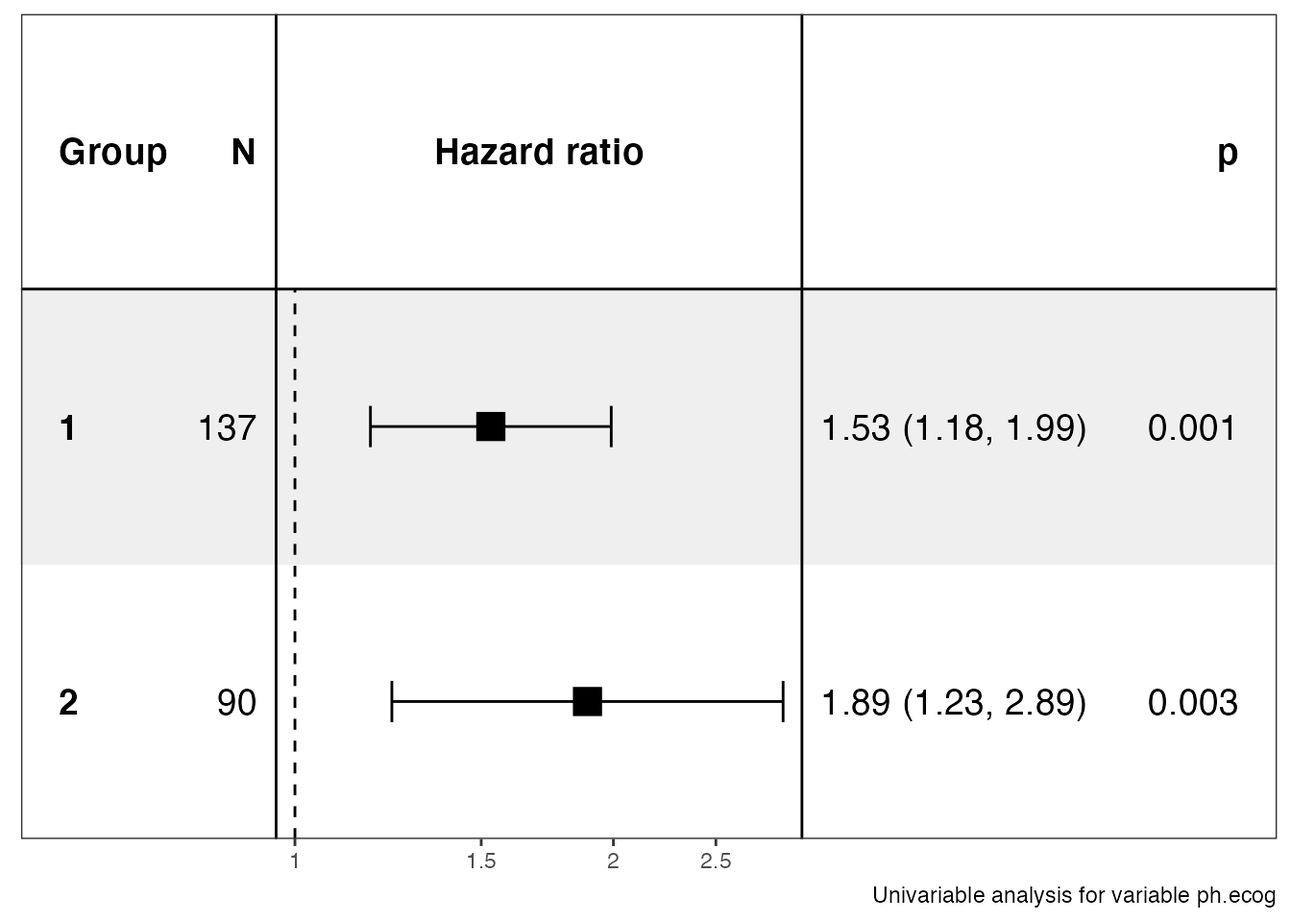
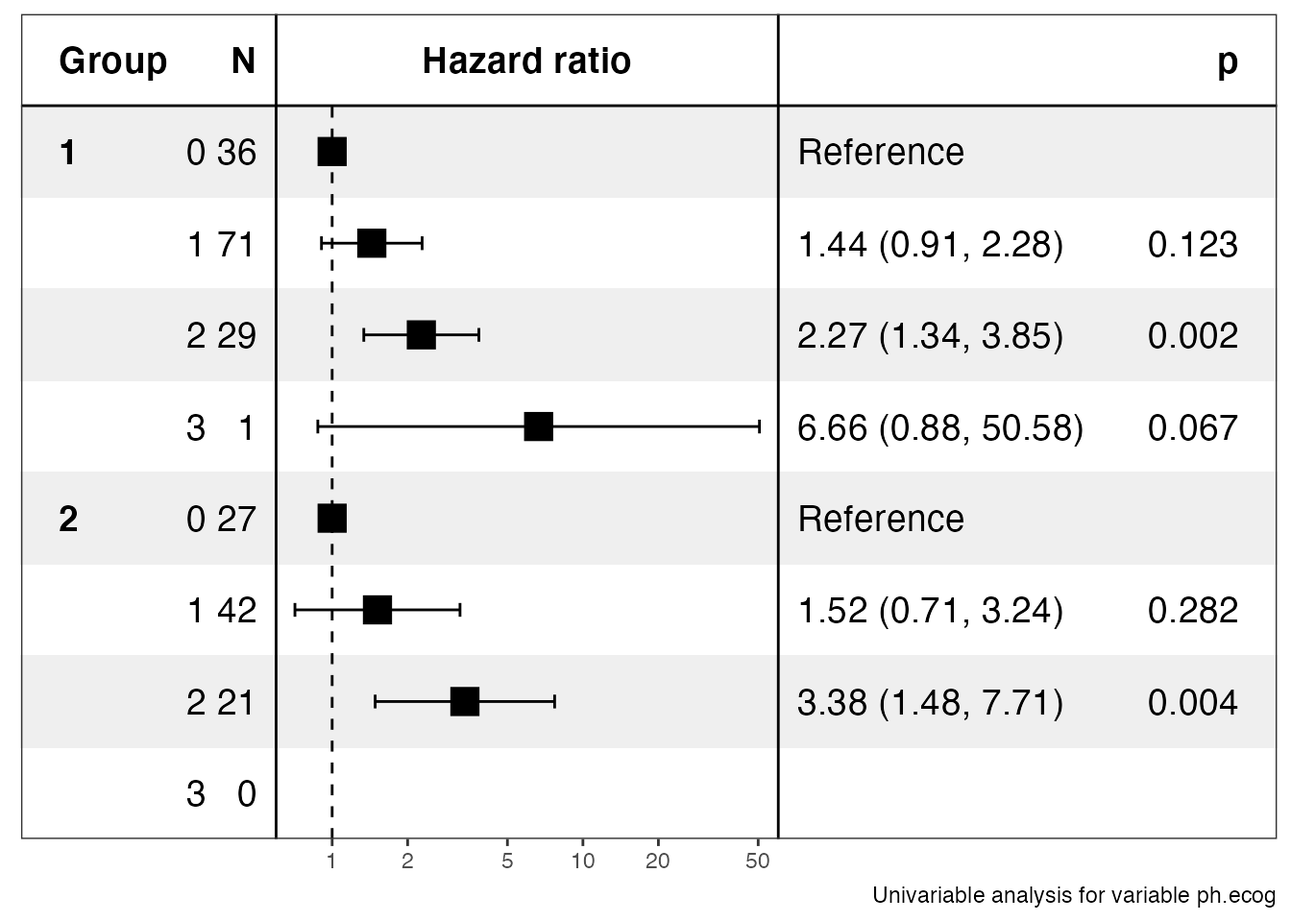
update docs

diff --git a/docs/articles/ezgroup.html b/docs/articles/ezgroup.html
@@ -91,7 +91,7 @@
       <h1 data-toc-skip>ezcox: Easy Group Cox Analysis and Visualization</h1>
                         <h4 class="author">Shixiang Wang  SYSUCC</h4>
             
-            <h4 class="date">2021-10-21</h4>
+            <h4 class="date">2021-10-28</h4>
       
       <small class="dont-index">Source: <a href="https://github.com/ShixiangWang/ezcox/blob/master/vignettes/ezgroup.Rmd"><code>vignettes/ezgroup.Rmd</code></a></small>
       <div class="hidden name"><code>ezgroup.Rmd</code></div>
@@ -108,12 +108,14 @@
 <span class="co">#&gt; </span>
 <span class="co">#&gt; Project home : https://github.com/ShixiangWang/ezcox</span>
 <span class="co">#&gt; Documentation: https://shixiangwang.github.io/ezcox</span>
-<span class="co">#&gt; </span>
-<span class="co">#&gt; Run citation("ezcox") to see how to cite 'ezcox'.</span>
+<span class="co">#&gt; Cite as      : arXiv:2110.14232</span>
 <span class="co">#&gt; =======================================================================</span>
 <span class="co">#&gt; </span></code></pre></div>
 <div class="sourceCode" id="cb2"><pre class="downlit sourceCode r">
 <code class="sourceCode R"><span class="kw"><a href="https://rdrr.io/r/base/library.html">library</a></span><span class="op">(</span><span class="va"><a href="https://github.com/therneau/survival">survival</a></span><span class="op">)</span>
+
+<span class="va">lung</span><span class="op">$</span><span class="va">ph.ecog</span> <span class="op">&lt;-</span> <span class="fu"><a href="https://rdrr.io/r/base/factor.html">factor</a></span><span class="op">(</span><span class="va">lung</span><span class="op">$</span><span class="va">ph.ecog</span><span class="op">)</span>
+
 <span class="fu"><a href="../reference/ezcox_group.html">ezcox_group</a></span><span class="op">(</span><span class="va">lung</span>, grp_var <span class="op">=</span> <span class="st">"sex"</span>, covariate <span class="op">=</span> <span class="st">"ph.ecog"</span><span class="op">)</span>
 <span class="co">#&gt; =&gt; Processing variable 1</span>
 <span class="co">#&gt; ==&gt; Building Surv object...</span>
@@ -126,24 +128,27 @@
 <span class="co">#&gt; covariates=NULL but drop_controls=TRUE, detecting controls...</span>
 <span class="co">#&gt; No. Skipping...</span>
 <span class="co">#&gt; Done.</span>
-<span class="co">#&gt; Resized limits to included dashed line in forest panel</span>
 <span class="co">#&gt; Returns a list containing data and ggplot.</span>
 <span class="co">#&gt; $data</span>
 <span class="co">#&gt; $stats</span>
-<span class="co">#&gt; # A tibble: 2 × 13</span>
-<span class="co">#&gt;   Group Variable is_control contrast_level ref_level n_contrast n_ref  beta</span>
-<span class="co">#&gt;   &lt;chr&gt; &lt;chr&gt;    &lt;lgl&gt;      &lt;chr&gt;          &lt;chr&gt;          &lt;int&gt; &lt;int&gt; &lt;dbl&gt;</span>
-<span class="co">#&gt; 1 1     ph.ecog  FALSE      1              1                137   137 0.426</span>
-<span class="co">#&gt; 2 2     ph.ecog  FALSE      2              2                 90    90 0.637</span>
+<span class="co">#&gt; # A tibble: 6 × 13</span>
+<span class="co">#&gt;   Group Variable is_control contrast_level ref_level n_contrast n_ref   beta</span>
+<span class="co">#&gt;   &lt;chr&gt; &lt;chr&gt;    &lt;lgl&gt;      &lt;chr&gt;          &lt;chr&gt;          &lt;dbl&gt; &lt;dbl&gt;  &lt;dbl&gt;</span>
+<span class="co">#&gt; 1 1     ph.ecog  FALSE      1              0                 71    36  0.364</span>
+<span class="co">#&gt; 2 1     ph.ecog  FALSE      2              0                 29    36  0.819</span>
+<span class="co">#&gt; 3 1     ph.ecog  FALSE      3              0                  1    36  1.9  </span>
+<span class="co">#&gt; 4 2     ph.ecog  FALSE      1              0                 42    27  0.416</span>
+<span class="co">#&gt; 5 2     ph.ecog  FALSE      2              0                 21    27  1.22 </span>
+<span class="co">#&gt; 6 2     ph.ecog  FALSE      3              0                  0    27 NA    </span>
 <span class="co">#&gt; # … with 5 more variables: HR &lt;dbl&gt;, lower_95 &lt;dbl&gt;, upper_95 &lt;dbl&gt;,</span>
 <span class="co">#&gt; #   p.value &lt;dbl&gt;, global.pval &lt;dbl&gt;</span>
 <span class="co">#&gt; </span>
 <span class="co">#&gt; $models</span>
 <span class="co">#&gt; # A tibble: 2 × 6</span>
-<span class="co">#&gt;   Group Variable control model_file                                model  status</span>
-<span class="co">#&gt;   &lt;chr&gt; &lt;chr&gt;    &lt;chr&gt;   &lt;chr&gt;                                     &lt;list&gt; &lt;lgl&gt; </span>
-<span class="co">#&gt; 1 1     ph.ecog  &lt;NA&gt;    /Volumes/Extra/R/Rtmp//Rtmptvse2d/ezcox/… &lt;coxp… TRUE  </span>
-<span class="co">#&gt; 2 2     ph.ecog  &lt;NA&gt;    /Volumes/Extra/R/Rtmp//Rtmptvse2d/ezcox/… &lt;coxp… TRUE  </span>
+<span class="co">#&gt;   Group Variable control model_file                                 model status</span>
+<span class="co">#&gt;   &lt;chr&gt; &lt;chr&gt;    &lt;chr&gt;   &lt;chr&gt;                                      &lt;lis&gt; &lt;lgl&gt; </span>
+<span class="co">#&gt; 1 1     ph.ecog  &lt;NA&gt;    /var/folders/bj/nw1w4g1j37ddpgb6zmh3sfh80… &lt;cox… TRUE  </span>
+<span class="co">#&gt; 2 2     ph.ecog  &lt;NA&gt;    /var/folders/bj/nw1w4g1j37ddpgb6zmh3sfh80… &lt;cox… TRUE  </span>
 <span class="co">#&gt; </span>
 <span class="co">#&gt; attr(,"class")</span>
 <span class="co">#&gt; [1] "ezcox"</span>
@@ -163,26 +168,29 @@
 <span class="co">#&gt; covariates=NULL but drop_controls=TRUE, detecting controls...</span>
 <span class="co">#&gt; Yes. Setting variables to keep...</span>
 <span class="co">#&gt; Done.</span>
-<span class="co">#&gt; Resized limits to included dashed line in forest panel</span>
 <span class="co">#&gt; Returns a list containing data and ggplot.</span>
 <span class="co">#&gt; $data</span>
 <span class="co">#&gt; $stats</span>
-<span class="co">#&gt; # A tibble: 4 × 13</span>
+<span class="co">#&gt; # A tibble: 8 × 13</span>
 <span class="co">#&gt;   Group Variable is_control contrast_level ref_level n_contrast n_ref    beta</span>
-<span class="co">#&gt;   &lt;chr&gt; &lt;chr&gt;    &lt;lgl&gt;      &lt;chr&gt;          &lt;chr&gt;          &lt;int&gt; &lt;int&gt;   &lt;dbl&gt;</span>
-<span class="co">#&gt; 1 1     ph.ecog  FALSE      1              1                137   137  0.419 </span>
-<span class="co">#&gt; 2 1     ph.ecog  TRUE       age            age              138   138  0.0184</span>
-<span class="co">#&gt; 3 2     ph.ecog  FALSE      2              2                 90    90  0.714 </span>
-<span class="co">#&gt; 4 2     ph.ecog  TRUE       age            age               90    90 -0.0112</span>
+<span class="co">#&gt;   &lt;chr&gt; &lt;chr&gt;    &lt;lgl&gt;      &lt;chr&gt;          &lt;chr&gt;          &lt;dbl&gt; &lt;dbl&gt;   &lt;dbl&gt;</span>
+<span class="co">#&gt; 1 1     ph.ecog  FALSE      1              0                 71    36  0.353 </span>
+<span class="co">#&gt; 2 1     ph.ecog  FALSE      2              0                 29    36  0.809 </span>
+<span class="co">#&gt; 3 1     ph.ecog  FALSE      3              0                  1    36  1.77  </span>
+<span class="co">#&gt; 4 1     ph.ecog  TRUE       age            age              138   138  0.0182</span>
+<span class="co">#&gt; 5 2     ph.ecog  FALSE      1              0                 42    27  0.439 </span>
+<span class="co">#&gt; 6 2     ph.ecog  FALSE      2              0                 21    27  1.41  </span>
+<span class="co">#&gt; 7 2     ph.ecog  FALSE      3              0                  0    27 NA     </span>
+<span class="co">#&gt; 8 2     ph.ecog  TRUE       age            age               90    90 -0.0153</span>
 <span class="co">#&gt; # … with 5 more variables: HR &lt;dbl&gt;, lower_95 &lt;dbl&gt;, upper_95 &lt;dbl&gt;,</span>
 <span class="co">#&gt; #   p.value &lt;dbl&gt;, global.pval &lt;dbl&gt;</span>
 <span class="co">#&gt; </span>
 <span class="co">#&gt; $models</span>
 <span class="co">#&gt; # A tibble: 2 × 6</span>
-<span class="co">#&gt;   Group Variable control model_file                                model  status</span>
-<span class="co">#&gt;   &lt;chr&gt; &lt;chr&gt;    &lt;chr&gt;   &lt;chr&gt;                                     &lt;list&gt; &lt;lgl&gt; </span>
-<span class="co">#&gt; 1 1     ph.ecog  age     /Volumes/Extra/R/Rtmp//Rtmptvse2d/ezcox/… &lt;coxp… TRUE  </span>
-<span class="co">#&gt; 2 2     ph.ecog  age     /Volumes/Extra/R/Rtmp//Rtmptvse2d/ezcox/… &lt;coxp… TRUE  </span>
+<span class="co">#&gt;   Group Variable control model_file                                 model status</span>
+<span class="co">#&gt;   &lt;chr&gt; &lt;chr&gt;    &lt;chr&gt;   &lt;chr&gt;                                      &lt;lis&gt; &lt;lgl&gt; </span>
+<span class="co">#&gt; 1 1     ph.ecog  age     /var/folders/bj/nw1w4g1j37ddpgb6zmh3sfh80… &lt;cox… TRUE  </span>
+<span class="co">#&gt; 2 2     ph.ecog  age     /var/folders/bj/nw1w4g1j37ddpgb6zmh3sfh80… &lt;cox… TRUE  </span>
 <span class="co">#&gt; </span>
 <span class="co">#&gt; attr(,"class")</span>
 <span class="co">#&gt; [1] "ezcox"</span>
@@ -206,29 +214,34 @@
 <span class="co">#&gt; covariates=NULL but drop_controls=TRUE, detecting controls...</span>
 <span class="co">#&gt; Yes. Setting variables to keep...</span>
 <span class="co">#&gt; Done.</span>
-<span class="co">#&gt; Resized limits to included dashed line in forest panel</span>
 <span class="co">#&gt; Returns a list containing data and ggplot.</span>
 <span class="co">#&gt; $data</span>
 <span class="co">#&gt; $stats</span>
-<span class="co">#&gt; # A tibble: 6 × 13</span>
-<span class="co">#&gt;   Group Variable is_control contrast_level ref_level n_contrast n_ref    beta</span>
-<span class="co">#&gt;   &lt;chr&gt; &lt;chr&gt;    &lt;lgl&gt;      &lt;chr&gt;          &lt;chr&gt;          &lt;int&gt; &lt;int&gt;   &lt;dbl&gt;</span>
-<span class="co">#&gt; 1 1     ph.ecog  FALSE      1              1                137   137  0.419 </span>
-<span class="co">#&gt; 2 1     ph.ecog  TRUE       age            age              138   138  0.0184</span>
-<span class="co">#&gt; 3 2     ph.ecog  FALSE      2              2                 90    90  0.714 </span>
-<span class="co">#&gt; 4 2     ph.ecog  TRUE       age            age               90    90 -0.0112</span>
-<span class="co">#&gt; 5 ALL   ph.ecog  FALSE      ALL            ALL              227   227  0.443 </span>
-<span class="co">#&gt; 6 ALL   ph.ecog  TRUE       age            age              228   228  0.0113</span>
+<span class="co">#&gt; # A tibble: 12 × 13</span>
+<span class="co">#&gt;    Group Variable is_control contrast_level ref_level n_contrast n_ref    beta</span>
+<span class="co">#&gt;    &lt;chr&gt; &lt;chr&gt;    &lt;lgl&gt;      &lt;chr&gt;          &lt;chr&gt;          &lt;dbl&gt; &lt;dbl&gt;   &lt;dbl&gt;</span>
+<span class="co">#&gt;  1 1     ph.ecog  FALSE      1              0                 71    36  0.353 </span>
+<span class="co">#&gt;  2 1     ph.ecog  FALSE      2              0                 29    36  0.809 </span>
+<span class="co">#&gt;  3 1     ph.ecog  FALSE      3              0                  1    36  1.77  </span>
+<span class="co">#&gt;  4 1     ph.ecog  TRUE       age            age              138   138  0.0182</span>
+<span class="co">#&gt;  5 2     ph.ecog  FALSE      1              0                 42    27  0.439 </span>
+<span class="co">#&gt;  6 2     ph.ecog  FALSE      2              0                 21    27  1.41  </span>
+<span class="co">#&gt;  7 2     ph.ecog  FALSE      3              0                  0    27 NA     </span>
+<span class="co">#&gt;  8 2     ph.ecog  TRUE       age            age               90    90 -0.0153</span>
+<span class="co">#&gt;  9 ALL   ph.ecog  FALSE      1              0                113    63  0.359 </span>
+<span class="co">#&gt; 10 ALL   ph.ecog  FALSE      2              0                 50    63  0.857 </span>
+<span class="co">#&gt; 11 ALL   ph.ecog  FALSE      3              0                  1    63  2.11  </span>
+<span class="co">#&gt; 12 ALL   ph.ecog  TRUE       age            age              228   228  0.0108</span>
 <span class="co">#&gt; # … with 5 more variables: HR &lt;dbl&gt;, lower_95 &lt;dbl&gt;, upper_95 &lt;dbl&gt;,</span>
 <span class="co">#&gt; #   p.value &lt;dbl&gt;, global.pval &lt;dbl&gt;</span>
 <span class="co">#&gt; </span>
 <span class="co">#&gt; $models</span>
 <span class="co">#&gt; # A tibble: 3 × 6</span>
-<span class="co">#&gt;   Group Variable control model_file                                model  status</span>
-<span class="co">#&gt;   &lt;chr&gt; &lt;chr&gt;    &lt;chr&gt;   &lt;chr&gt;                                     &lt;list&gt; &lt;lgl&gt; </span>
-<span class="co">#&gt; 1 1     ph.ecog  age     /Volumes/Extra/R/Rtmp//Rtmptvse2d/ezcox/… &lt;coxp… TRUE  </span>
-<span class="co">#&gt; 2 2     ph.ecog  age     /Volumes/Extra/R/Rtmp//Rtmptvse2d/ezcox/… &lt;coxp… TRUE  </span>
-<span class="co">#&gt; 3 ALL   ph.ecog  age     /Volumes/Extra/R/Rtmp//Rtmptvse2d/ezcox/… &lt;coxp… TRUE  </span>
+<span class="co">#&gt;   Group Variable control model_file                                 model status</span>
+<span class="co">#&gt;   &lt;chr&gt; &lt;chr&gt;    &lt;chr&gt;   &lt;chr&gt;                                      &lt;lis&gt; &lt;lgl&gt; </span>
+<span class="co">#&gt; 1 1     ph.ecog  age     /var/folders/bj/nw1w4g1j37ddpgb6zmh3sfh80… &lt;cox… TRUE  </span>
+<span class="co">#&gt; 2 2     ph.ecog  age     /var/folders/bj/nw1w4g1j37ddpgb6zmh3sfh80… &lt;cox… TRUE  </span>
+<span class="co">#&gt; 3 ALL   ph.ecog  age     /var/folders/bj/nw1w4g1j37ddpgb6zmh3sfh80… &lt;cox… TRUE  </span>
 <span class="co">#&gt; </span>
 <span class="co">#&gt; attr(,"class")</span>
 <span class="co">#&gt; [1] "ezcox"</span>

diff --git a/docs/reference/ezcox_group.html b/docs/reference/ezcox_group.html
@@ -233,10 +233,10 @@ term, please make sure all column names in <code>data</code> are valid R variabl
 #&gt; 
 #&gt; $models
 #&gt; <span style='color: #949494;'># A tibble: 2 × 6</span>
-#&gt;   Group Variable control model_file                                model  status
-#&gt;   <span style='color: #949494; font-style: italic;'>&lt;chr&gt;</span> <span style='color: #949494; font-style: italic;'>&lt;chr&gt;</span>    <span style='color: #949494; font-style: italic;'>&lt;chr&gt;</span>   <span style='color: #949494; font-style: italic;'>&lt;chr&gt;</span>                                     <span style='color: #949494; font-style: italic;'>&lt;list&gt;</span> <span style='color: #949494; font-style: italic;'>&lt;lgl&gt;</span> 
-#&gt; <span style='color: #BCBCBC;'>1</span> 1     ph.ecog  <span style='color: #BB0000;'>NA</span>      /Volumes/Extra/R/Rtmp//RtmpAMN0PG/ezcox/… <span style='color: #949494;'>&lt;coxp</span>… TRUE  
-#&gt; <span style='color: #BCBCBC;'>2</span> 2     ph.ecog  <span style='color: #BB0000;'>NA</span>      /Volumes/Extra/R/Rtmp//RtmpAMN0PG/ezcox/… <span style='color: #949494;'>&lt;coxp</span>… TRUE  
+#&gt;   Group Variable control model_file                                 model status
+#&gt;   <span style='color: #949494; font-style: italic;'>&lt;chr&gt;</span> <span style='color: #949494; font-style: italic;'>&lt;chr&gt;</span>    <span style='color: #949494; font-style: italic;'>&lt;chr&gt;</span>   <span style='color: #949494; font-style: italic;'>&lt;chr&gt;</span>                                      <span style='color: #949494; font-style: italic;'>&lt;lis&gt;</span> <span style='color: #949494; font-style: italic;'>&lt;lgl&gt;</span> 
+#&gt; <span style='color: #BCBCBC;'>1</span> 1     ph.ecog  <span style='color: #BB0000;'>NA</span>      /var/folders/bj/nw1w4g1j37ddpgb6zmh3sfh80… <span style='color: #949494;'>&lt;cox</span>… TRUE  
+#&gt; <span style='color: #BCBCBC;'>2</span> 2     ph.ecog  <span style='color: #BB0000;'>NA</span>      /var/folders/bj/nw1w4g1j37ddpgb6zmh3sfh80… <span style='color: #949494;'>&lt;cox</span>… TRUE  
 #&gt; 
 #&gt; attr(,"class")
 #&gt; [1] "ezcox"
@@ -256,10 +256,10 @@ term, please make sure all column names in <code>data</code> are valid R variabl
 #&gt; 
 #&gt; $models
 #&gt; <span style='color: #949494;'># A tibble: 2 × 6</span>
-#&gt;   Group Variable control model_file                                model  status
-#&gt;   <span style='color: #949494; font-style: italic;'>&lt;chr&gt;</span> <span style='color: #949494; font-style: italic;'>&lt;chr&gt;</span>    <span style='color: #949494; font-style: italic;'>&lt;chr&gt;</span>   <span style='color: #949494; font-style: italic;'>&lt;chr&gt;</span>                                     <span style='color: #949494; font-style: italic;'>&lt;list&gt;</span> <span style='color: #949494; font-style: italic;'>&lt;lgl&gt;</span> 
-#&gt; <span style='color: #BCBCBC;'>1</span> 1     ph.ecog  age     /Volumes/Extra/R/Rtmp//RtmpAMN0PG/ezcox/… <span style='color: #949494;'>&lt;coxp</span>… TRUE  
-#&gt; <span style='color: #BCBCBC;'>2</span> 2     ph.ecog  age     /Volumes/Extra/R/Rtmp//RtmpAMN0PG/ezcox/… <span style='color: #949494;'>&lt;coxp</span>… TRUE  
+#&gt;   Group Variable control model_file                                 model status
+#&gt;   <span style='color: #949494; font-style: italic;'>&lt;chr&gt;</span> <span style='color: #949494; font-style: italic;'>&lt;chr&gt;</span>    <span style='color: #949494; font-style: italic;'>&lt;chr&gt;</span>   <span style='color: #949494; font-style: italic;'>&lt;chr&gt;</span>                                      <span style='color: #949494; font-style: italic;'>&lt;lis&gt;</span> <span style='color: #949494; font-style: italic;'>&lt;lgl&gt;</span> 
+#&gt; <span style='color: #BCBCBC;'>1</span> 1     ph.ecog  age     /var/folders/bj/nw1w4g1j37ddpgb6zmh3sfh80… <span style='color: #949494;'>&lt;cox</span>… TRUE  
+#&gt; <span style='color: #BCBCBC;'>2</span> 2     ph.ecog  age     /var/folders/bj/nw1w4g1j37ddpgb6zmh3sfh80… <span style='color: #949494;'>&lt;cox</span>… TRUE  
 #&gt; 
 #&gt; attr(,"class")
 #&gt; [1] "ezcox"

diff --git a/docs/reference/ezcox.html b/docs/reference/ezcox.html
@@ -264,9 +264,9 @@ cox models.</p></td>
 #&gt; <span style='color: #949494;'># A tibble: 3 × 5</span>
 #&gt;   Variable control model_file                                      model  status
 #&gt;   <span style='color: #949494; font-style: italic;'>&lt;chr&gt;</span>    <span style='color: #949494; font-style: italic;'>&lt;chr&gt;</span>   <span style='color: #949494; font-style: italic;'>&lt;chr&gt;</span>                                           <span style='color: #949494; font-style: italic;'>&lt;list&gt;</span> <span style='color: #949494; font-style: italic;'>&lt;lgl&gt;</span> 
-#&gt; <span style='color: #BCBCBC;'>1</span> age      <span style='color: #BB0000;'>NA</span>      /Volumes/Extra/R/Rtmp//RtmpAMN0PG/ezcox/ezcox_… <span style='color: #949494;'>&lt;coxp</span>… TRUE  
-#&gt; <span style='color: #BCBCBC;'>2</span> sex      <span style='color: #BB0000;'>NA</span>      /Volumes/Extra/R/Rtmp//RtmpAMN0PG/ezcox/ezcox_… <span style='color: #949494;'>&lt;coxp</span>… TRUE  
-#&gt; <span style='color: #BCBCBC;'>3</span> ph.ecog  <span style='color: #BB0000;'>NA</span>      /Volumes/Extra/R/Rtmp//RtmpAMN0PG/ezcox/ezcox_… <span style='color: #949494;'>&lt;coxp</span>… TRUE  
+#&gt; <span style='color: #BCBCBC;'>1</span> age      <span style='color: #BB0000;'>NA</span>      /var/folders/bj/nw1w4g1j37ddpgb6zmh3sfh80000gn… <span style='color: #949494;'>&lt;coxp</span>… TRUE  
+#&gt; <span style='color: #BCBCBC;'>2</span> sex      <span style='color: #BB0000;'>NA</span>      /var/folders/bj/nw1w4g1j37ddpgb6zmh3sfh80000gn… <span style='color: #949494;'>&lt;coxp</span>… TRUE  
+#&gt; <span style='color: #BCBCBC;'>3</span> ph.ecog  <span style='color: #BB0000;'>NA</span>      /var/folders/bj/nw1w4g1j37ddpgb6zmh3sfh80000gn… <span style='color: #949494;'>&lt;coxp</span>… TRUE  
 #&gt; 
 #&gt; attr(,"class")
 #&gt; [1] "ezcox" "list" 
@@ -291,8 +291,8 @@ cox models.</p></td>
 #&gt; <span style='color: #949494;'># A tibble: 2 × 5</span>
 #&gt;   Variable control model_file                                      model  status
 #&gt;   <span style='color: #949494; font-style: italic;'>&lt;chr&gt;</span>    <span style='color: #949494; font-style: italic;'>&lt;chr&gt;</span>   <span style='color: #949494; font-style: italic;'>&lt;chr&gt;</span>                                           <span style='color: #949494; font-style: italic;'>&lt;list&gt;</span> <span style='color: #949494; font-style: italic;'>&lt;lgl&gt;</span> 
-#&gt; <span style='color: #BCBCBC;'>1</span> sex      age     /Volumes/Extra/R/Rtmp//RtmpAMN0PG/ezcox/ezcox_… <span style='color: #949494;'>&lt;coxp</span>… TRUE  
-#&gt; <span style='color: #BCBCBC;'>2</span> ph.ecog  age     /Volumes/Extra/R/Rtmp//RtmpAMN0PG/ezcox/ezcox_… <span style='color: #949494;'>&lt;coxp</span>… TRUE  
+#&gt; <span style='color: #BCBCBC;'>1</span> sex      age     /var/folders/bj/nw1w4g1j37ddpgb6zmh3sfh80000gn… <span style='color: #949494;'>&lt;coxp</span>… TRUE  
+#&gt; <span style='color: #BCBCBC;'>2</span> ph.ecog  age     /var/folders/bj/nw1w4g1j37ddpgb6zmh3sfh80000gn… <span style='color: #949494;'>&lt;coxp</span>… TRUE  
 #&gt; 
 #&gt; attr(,"class")
 #&gt; [1] "ezcox" "list" 

diff --git a/docs/articles/ezcox.html b/docs/articles/ezcox.html
@@ -91,7 +91,7 @@
       <h1 data-toc-skip>ezcox: Easily Process a Batch of Cox Models</h1>
                         <h4 class="author">Shixiang Wang  SYSUCC</h4>
             
-            <h4 class="date">2021-10-21</h4>
+            <h4 class="date">2021-10-28</h4>
       
       <small class="dont-index">Source: <a href="https://github.com/ShixiangWang/ezcox/blob/master/vignettes/ezcox.Rmd"><code>vignettes/ezcox.Rmd</code></a></small>
       <div class="hidden name"><code>ezcox.Rmd</code></div>
@@ -128,8 +128,7 @@
 <span class="co">#&gt; </span>
 <span class="co">#&gt; Project home : https://github.com/ShixiangWang/ezcox</span>
 <span class="co">#&gt; Documentation: https://shixiangwang.github.io/ezcox</span>
-<span class="co">#&gt; </span>
-<span class="co">#&gt; Run citation("ezcox") to see how to cite 'ezcox'.</span>
+<span class="co">#&gt; Cite as      : arXiv:2110.14232</span>
 <span class="co">#&gt; =======================================================================</span>
 <span class="co">#&gt; </span>
 <span class="fu"><a href="https://rdrr.io/r/utils/data.html">data</a></span><span class="op">(</span><span class="va">lung</span><span class="op">)</span>
@@ -193,7 +192,7 @@
 <p>For parallel computation, users can use <code><a href="../reference/ezcox_parallel.html">ezcox_parallel()</a></code>. This function has same arguments as <code><a href="../reference/ezcox.html">ezcox()</a></code>. For variables &lt; 200, this function is not recommended.</p>
 <div class="sourceCode" id="cb5"><pre class="downlit sourceCode r">
 <code class="sourceCode R"><span class="fu"><a href="../reference/ezcox_parallel.html">ezcox_parallel</a></span><span class="op">(</span><span class="va">lung</span>, covariates <span class="op">=</span> <span class="fu"><a href="https://rdrr.io/r/base/c.html">c</a></span><span class="op">(</span><span class="st">"sex"</span>, <span class="st">"ph.ecog"</span><span class="op">)</span>, controls <span class="op">=</span> <span class="st">"age"</span><span class="op">)</span>
-<span class="co">#&gt; 载入需要的名字空间：furrr</span>
+<span class="co">#&gt; Loading required namespace: furrr</span>
 <span class="co">#&gt; # A tibble: 4 × 12</span>
 <span class="co">#&gt;   Variable is_control contrast_level ref_level n_contrast n_ref    beta    HR</span>
 <span class="co">#&gt;   &lt;chr&gt;    &lt;lgl&gt;      &lt;chr&gt;          &lt;chr&gt;          &lt;int&gt; &lt;int&gt;   &lt;dbl&gt; &lt;dbl&gt;</span>

diff --git a/docs/reference/ezcox_parallel.html b/docs/reference/ezcox_parallel.html
@@ -224,7 +224,7 @@ set <code>verbose</code> to <code>FALSE</code> may speed up.</p></td>
     <h2 class="hasAnchor" id="examples"><a class="anchor" href="#examples"></a>Examples</h2>
     <pre class="examples"><div class='input'><span class='kw'><a href='https://rdrr.io/r/base/library.html'>library</a></span><span class='op'>(</span><span class='va'><a href='https://github.com/therneau/survival'>survival</a></span><span class='op'>)</span>
 <span class='va'>t</span> <span class='op'>&lt;-</span> <span class='fu'>ezcox_parallel</span><span class='op'>(</span><span class='va'>lung</span>, covariates <span class='op'>=</span> <span class='fu'><a href='https://rdrr.io/r/base/c.html'>c</a></span><span class='op'>(</span><span class='st'>"sex"</span>, <span class='st'>"ph.ecog"</span><span class='op'>)</span>, controls <span class='op'>=</span> <span class='st'>"age"</span><span class='op'>)</span>
-</div><div class='output co'>#&gt; <span class='message'>载入需要的名字空间：furrr</span></div><div class='input'><span class='va'>t</span>
+</div><div class='output co'>#&gt; <span class='message'>Loading required namespace: furrr</span></div><div class='input'><span class='va'>t</span>
 </div><div class='output co'>#&gt; <span style='color: #949494;'># A tibble: 4 × 12</span>
 #&gt;   Variable is_control contrast_level ref_level n_contrast n_ref    beta    HR
 #&gt;   <span style='color: #949494; font-style: italic;'>&lt;chr&gt;</span>    <span style='color: #949494; font-style: italic;'>&lt;lgl&gt;</span>      <span style='color: #949494; font-style: italic;'>&lt;chr&gt;</span>          <span style='color: #949494; font-style: italic;'>&lt;chr&gt;</span>          <span style='color: #949494; font-style: italic;'>&lt;int&gt;</span> <span style='color: #949494; font-style: italic;'>&lt;int&gt;</span>   <span style='color: #949494; font-style: italic;'>&lt;dbl&gt;</span> <span style='color: #949494; font-style: italic;'>&lt;dbl&gt;</span>

diff --git a/docs/articles/ezforest.html b/docs/articles/ezforest.html
@@ -91,7 +91,7 @@
       <h1 data-toc-skip>ezcox: Easily Show Cox Forestplot in One Command</h1>
                         <h4 class="author">Shixiang Wang  SYSUCC</h4>
             
-            <h4 class="date">2021-10-21</h4>
+            <h4 class="date">2021-10-28</h4>
       
       <small class="dont-index">Source: <a href="https://github.com/ShixiangWang/ezcox/blob/master/vignettes/ezforest.Rmd"><code>vignettes/ezforest.Rmd</code></a></small>
       <div class="hidden name"><code>ezforest.Rmd</code></div>
@@ -109,8 +109,7 @@
 <span class="co">#&gt; </span>
 <span class="co">#&gt; Project home : https://github.com/ShixiangWang/ezcox</span>
 <span class="co">#&gt; Documentation: https://shixiangwang.github.io/ezcox</span>
-<span class="co">#&gt; </span>
-<span class="co">#&gt; Run citation("ezcox") to see how to cite 'ezcox'.</span>
+<span class="co">#&gt; Cite as      : arXiv:2110.14232</span>
 <span class="co">#&gt; =======================================================================</span>
 <span class="co">#&gt; </span></code></pre></div>
 <div id="forester" class="section level2">

diff --git a/docs/index.html b/docs/index.html
@@ -210,11 +210,7 @@
 <div id="page_with_curl-citation" class="section level2">
 <h2 class="hasAnchor">
 <a href="#page_with_curl-citation" class="anchor"></a>:page_with_curl: Citation</h2>
-<p><strong>ezcox</strong> has not been published, if you are using it in academic research, please cite:</p>
-<ul>
-<li>Shixiang Wang (2021). ezcox: Easily Process a Batch of Cox Models. R package version 1.0.0. <a href="https://github.com/ShixiangWang/ezcox" class="uri">https://github.com/ShixiangWang/ezcox</a>
-</li>
-</ul>
+<p>If you are using it in academic research, please cite the preprint <a href="https://arxiv.org/abs/2110.14232">arXiv:2110.14232</a> along with URL of this repo.</p>
 </div>
 </div>
   </div>

diff --git a/docs/news/index.html b/docs/news/index.html
@@ -137,6 +137,7 @@
 <a href="#ezcox-102" class="anchor"></a>ezcox 1.0.2<small> Unreleased </small>
 </h1>
 <ul>
+<li>Fixed changable <code>ALL</code> group in <code><a href="../reference/ezcox_group.html">ezcox_group()</a></code>.</li>
 <li>Supported interaction term in <code>controls</code> option.</li>
 </ul>
 <div class="sourceCode" id="cb1"><pre class="downlit sourceCode r">

diff --git a/README.md b/README.md
@@ -154,7 +154,6 @@ show_models(mds)
 
 ## :page\_with\_curl: Citation
 
-**ezcox** has not been published, if you are using it in academic research,
-please cite the following paper along with URL of this repo:
-
-- Wang, S., Zhang, J., He, Z., Wu, K., & Liu, X. S. (2019). The predictive power of tumor mutational burden in lung cancer immunotherapy response is influenced by patients’ sex. International journal of cancer, 145(10), 2840-2849.
+If you are using it in academic research, please cite the preprint
+[arXiv:2110.14232](https://arxiv.org/abs/2110.14232) along with URL of
+this repo.
